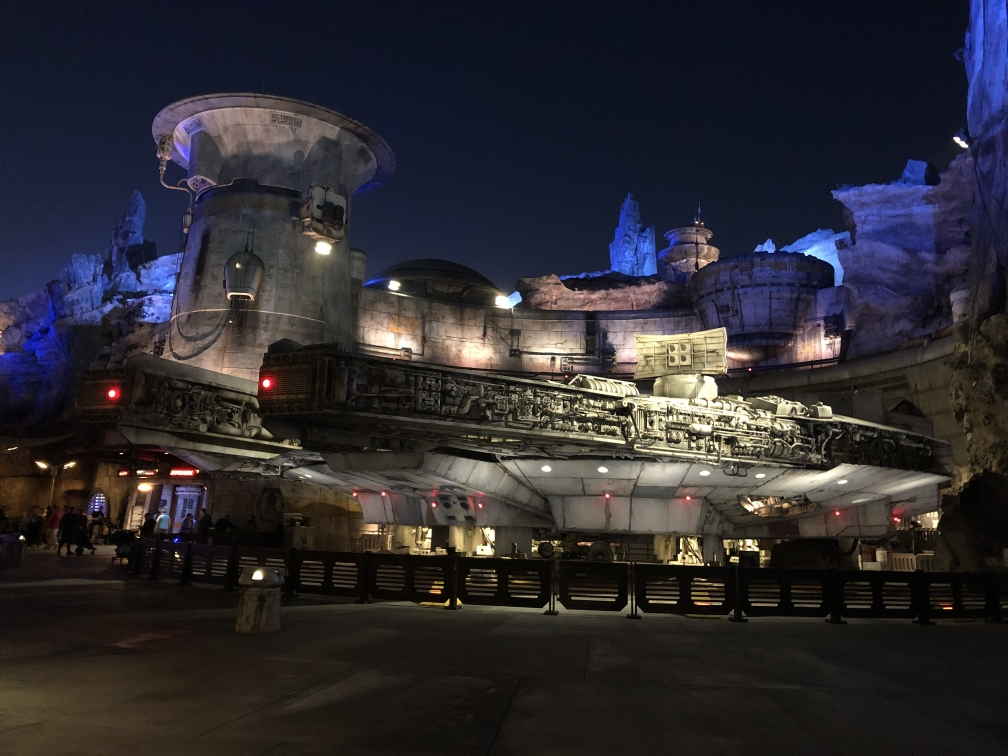
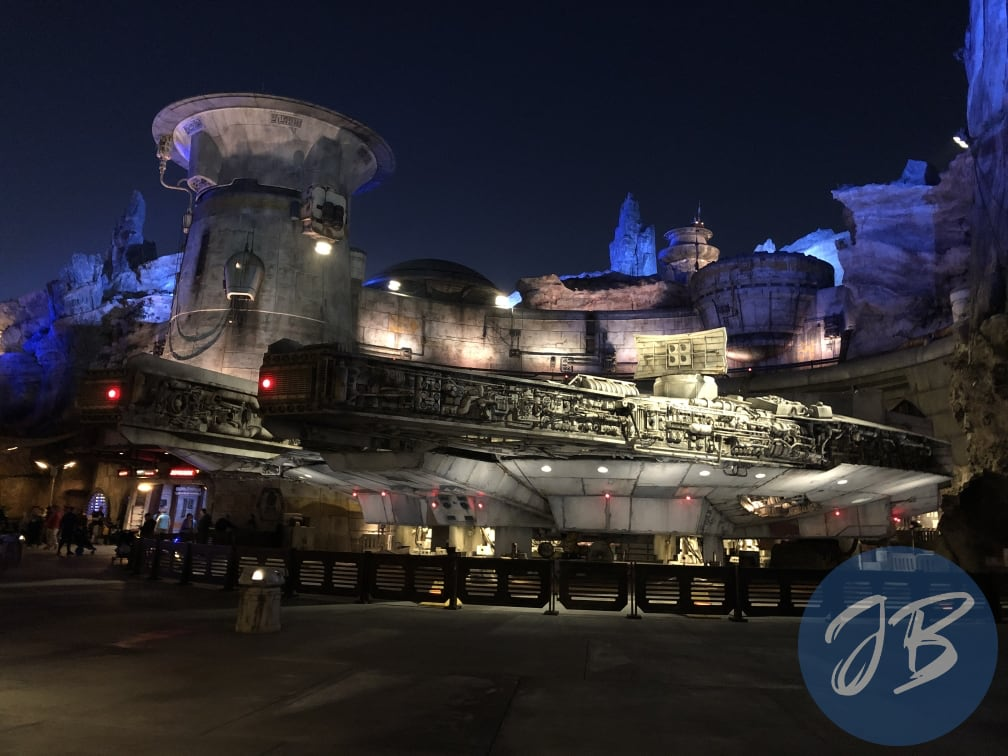
added

Changed region(s): [[0.7688, 0.6997, 1.0, 1.0]]

diff --git a/privacy.html b/privacy.html
@@ -64,7 +64,7 @@
 
         <p>I do utilize Venturify Tracking for visits, and that is it. Private information (IP, exact location, etc) is not recorded.</p>
 
-<p> <a href="./index.html"><img src="./img/favicon.PNG" width="200px" alt="Logo"></a> </p>
+<p> <a href="./index.html"><img src="./img/jb.png" width="200px" alt="Logo"></a> </p>
 
     </article>
 
